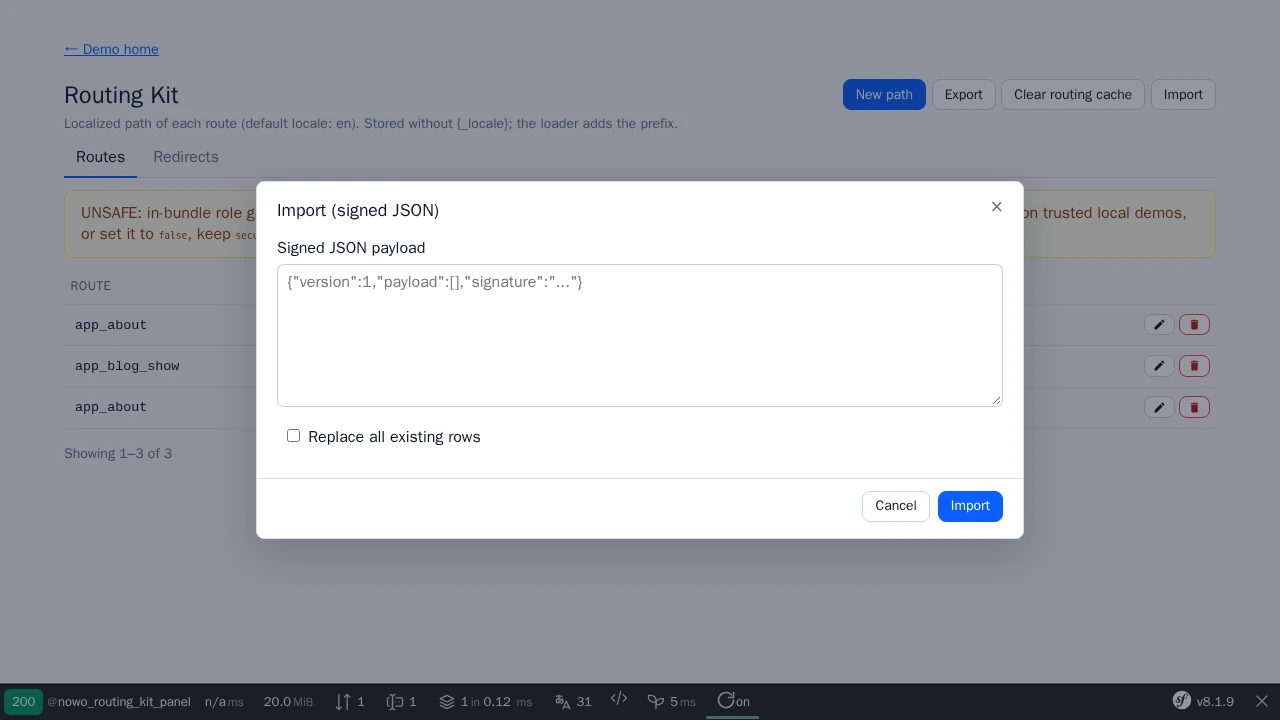
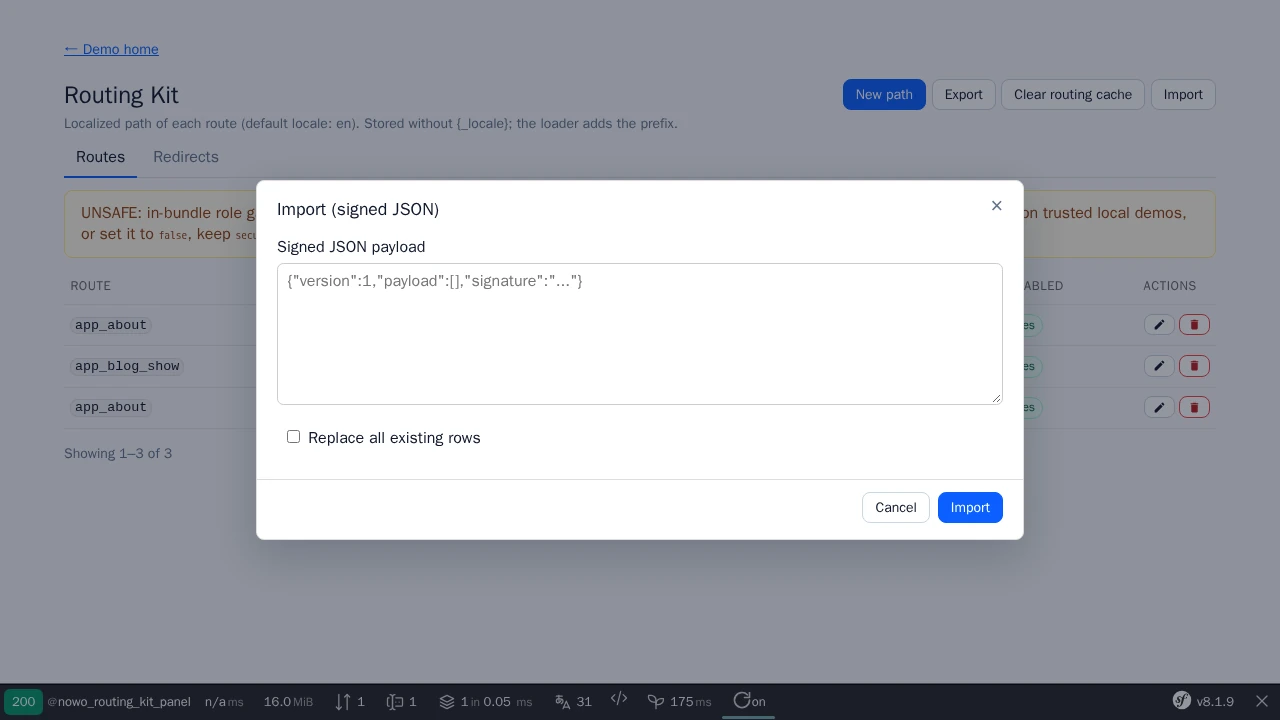
docs: changelog, upgrading and re-captured screenshots for UiKit 2.2 (REQ-DEMO-013)

diff --git a/docs/CHANGELOG.md b/docs/CHANGELOG.md
@@ -45,6 +45,16 @@ and this project adheres to [Semantic Versioning](https://semver.org/spec/v2.0.0
 
 ## [Unreleased]
 
+### Changed
+
+- Requires `nowo-tech/ui-kit-bundle` **^2.2** (default-theme polish: centred confirm dialog with a close button and a
+  solid destructive button, table header hierarchy, visible actions column header, tinted inline code). See
+  [UPGRADING](UPGRADING.md#unreleased).
+- The redirect status notice passes its message through the `flashes` partial's `flash_messages` input (UiKit 2.2;
+  the 2.0 `flashes` input is deprecated and ignored inside page scaffolds).
+- The deprecated 1.x layout bridge (`panel/_legacy_layout.html.twig`) prints the UiKit runtimes through the UiKit
+  `scripts` partial (with the CSP nonce) instead of its own list (modal, confirm, dialog); demo host layout likewise.
+
 ## [1.9.1] - 2026-10-18
 
 UiKit icon row actions, consistent Yes/No badges and code cells, import in a dialog by default, confirm titles name the item; row-count caption hidden by default. See [UPGRADING](UPGRADING.md#to-191).

diff --git a/docs/UPGRADING.md b/docs/UPGRADING.md
@@ -86,6 +86,13 @@
 
 ## Unreleased
 
+Requires UiKit **^2.2** (`composer require nowo-tech/ui-kit-bundle:^2.2`). No configuration change. What hosts may
+notice (UiKit UPGRADING "Template contract (2.2)"): the delete confirm dialog is centred, has a close button and a
+solid red confirm button (`btn_danger_solid`: a host theme that styled `btn_danger` for confirms sets it too); table
+headers are small uppercase labels and the actions column has a visible "Actions" header; host layouts with their own
+UiKit script list should include `{{ include(nowo_ui_partial('scripts')) }}` instead. Overrides of
+`panel/_notices.html.twig` that pass `flashes:` to the `flashes` partial switch to `flash_messages:`.
+
 ## To 1.9.1
 
 From **1.9.0**:
